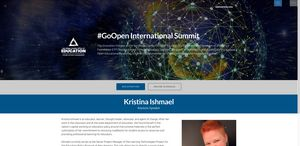
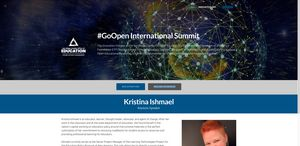
work this time

Changed region(s): [[0.48, 0.5479, 0.63, 0.6301], [0.9, 0.0, 1.0, 0.0548], [0.66, 0.0274, 0.78, 0.0822]]

diff --git a/GoOpen.html b/GoOpen.html
@@ -24,7 +24,7 @@
   
 </head>
 <body>
-  <section id="ext_menu-f" data-rv-view="56">
+  <section id="ext_menu-f" data-rv-view="0">
 
     <nav class="navbar navbar-dropdown transparent navbar-fixed-top bg-color">
         <div class="container">
@@ -37,7 +37,7 @@
                         <div class="hamburger-icon"></div>
                     </button>
 
-                    <ul class="nav-dropdown collapse pull-xs-right nav navbar-nav navbar-toggleable-sm" id="exCollapsingNavbar"><li class="nav-item"><a class="nav-link link" href="https://www.innovatesd.org" target="_blank" aria-expanded="false">INNOVATESD.ORG</a></li><li class="nav-item dropdown"><a class="nav-link link" href="https://www.sdcoe.net/Pages/Home.aspx" target="_blank" aria-expanded="true">SDCOE.net</a></li></ul>
+                    <ul class="nav-dropdown collapse pull-xs-right nav navbar-nav navbar-toggleable-sm" id="exCollapsingNavbar"><li class="nav-item"><a class="nav-link link" href="https://www.innovatesd.org" target="_blank" aria-expanded="false">SDCOE.net</a></li><li class="nav-item"><a class="nav-link link" href="https://www.innovatesd.org" target="_blank" aria-expanded="false">INNOVATESD.ORG</a></li></ul>
                     <button hidden="" class="navbar-toggler navbar-close" type="button" data-toggle="collapse" data-target="#exCollapsingNavbar">
                         <div class="close-icon"></div>
                     </button>
@@ -50,7 +50,7 @@
 
 </section>
 
-<section class="engine"><a href="https://mobirise.info/d">free website maker</a></section><section class="mbr-section mbr-parallax-background mbr-after-navbar" id="msg-box6-c" data-rv-view="58" style="background-image: url(assets/images/network-3537401-1920-1920x1280.jpg); padding-top: 200px; padding-bottom: 120px;">
+<section class="engine"><a href="https://mobirise.info/w">free html5 templates</a></section><section class="mbr-section mbr-parallax-background mbr-after-navbar" id="msg-box6-c" data-rv-view="2" style="background-image: url(assets/images/network-3537401-1920-1920x1280.jpg); padding-top: 200px; padding-bottom: 120px;">
 
     <div class="mbr-overlay" style="opacity: 0.4; background-color: rgb(0, 0, 0);">
     </div>
@@ -85,7 +85,7 @@
 
 </section>
 
-<section class="mbr-section mbr-section__container" id="buttons1-p" data-rv-view="61" style="background-color: rgb(204, 204, 204); padding-top: 20px; padding-bottom: 20px;">
+<section class="mbr-section mbr-section__container" id="buttons1-p" data-rv-view="5" style="background-color: rgb(204, 204, 204); padding-top: 20px; padding-bottom: 20px;">
 
     <div class="container">
         <div class="row">
@@ -97,7 +97,7 @@
 
 </section>
 
-<section class="mbr-section mbr-section__container article" id="header3-i" data-rv-view="63" style="background-color: rgb(0, 84, 136); padding-top: 20px; padding-bottom: 20px;">
+<section class="mbr-section mbr-section__container article" id="header3-i" data-rv-view="7" style="background-color: rgb(0, 84, 136); padding-top: 20px; padding-bottom: 20px;">
     <div class="container">
         <div class="row">
             <div class="col-xs-12">
@@ -108,7 +108,7 @@
     </div>
 </section>
 
-<section class="mbr-section" id="msg-box5-l" data-rv-view="65" style="background-color: rgb(255, 255, 255); padding-top: 0px; padding-bottom: 0px;">
+<section class="mbr-section" id="msg-box5-l" data-rv-view="9" style="background-color: rgb(255, 255, 255); padding-top: 0px; padding-bottom: 0px;">
 
     
     <div class="container">
@@ -142,7 +142,7 @@
 
 </section>
 
-<section class="mbr-section article mbr-section__container" id="content1-o" data-rv-view="68" style="background-color: rgb(255, 255, 255); padding-top: 0px; padding-bottom: 20px;">
+<section class="mbr-section article mbr-section__container" id="content1-o" data-rv-view="12" style="background-color: rgb(255, 255, 255); padding-top: 0px; padding-bottom: 20px;">
 
     <div class="container">
         <div class="row">
